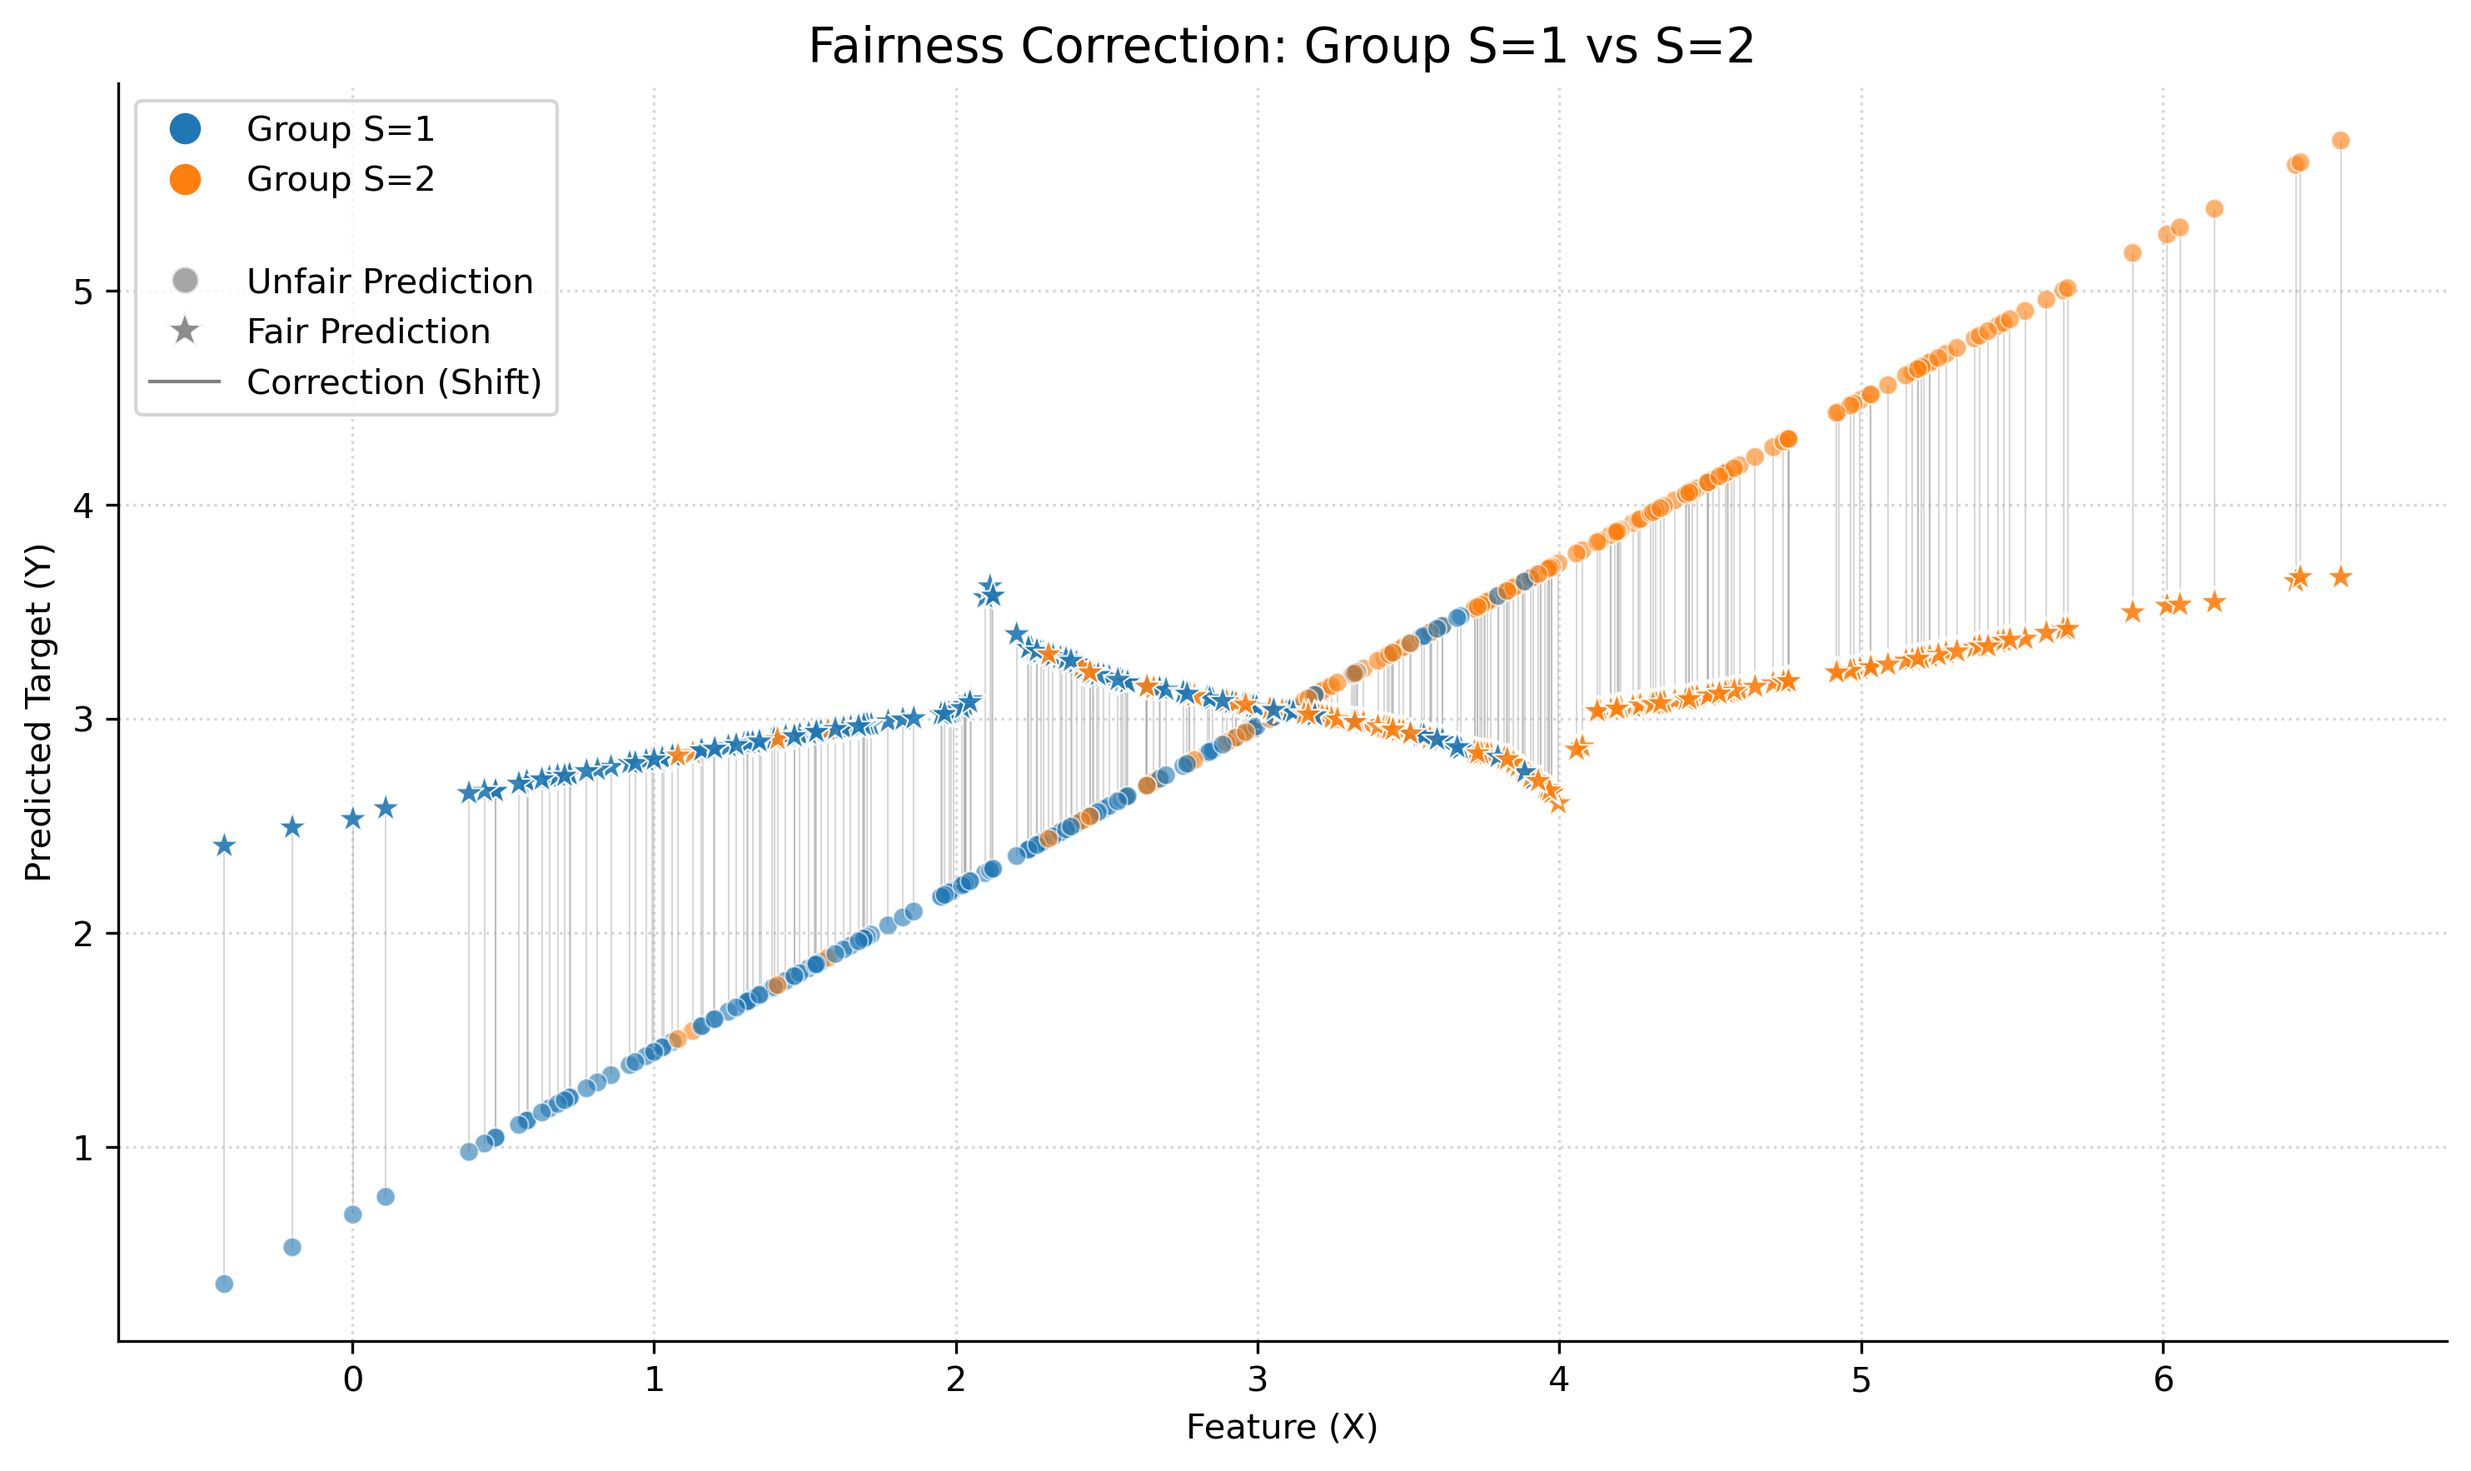
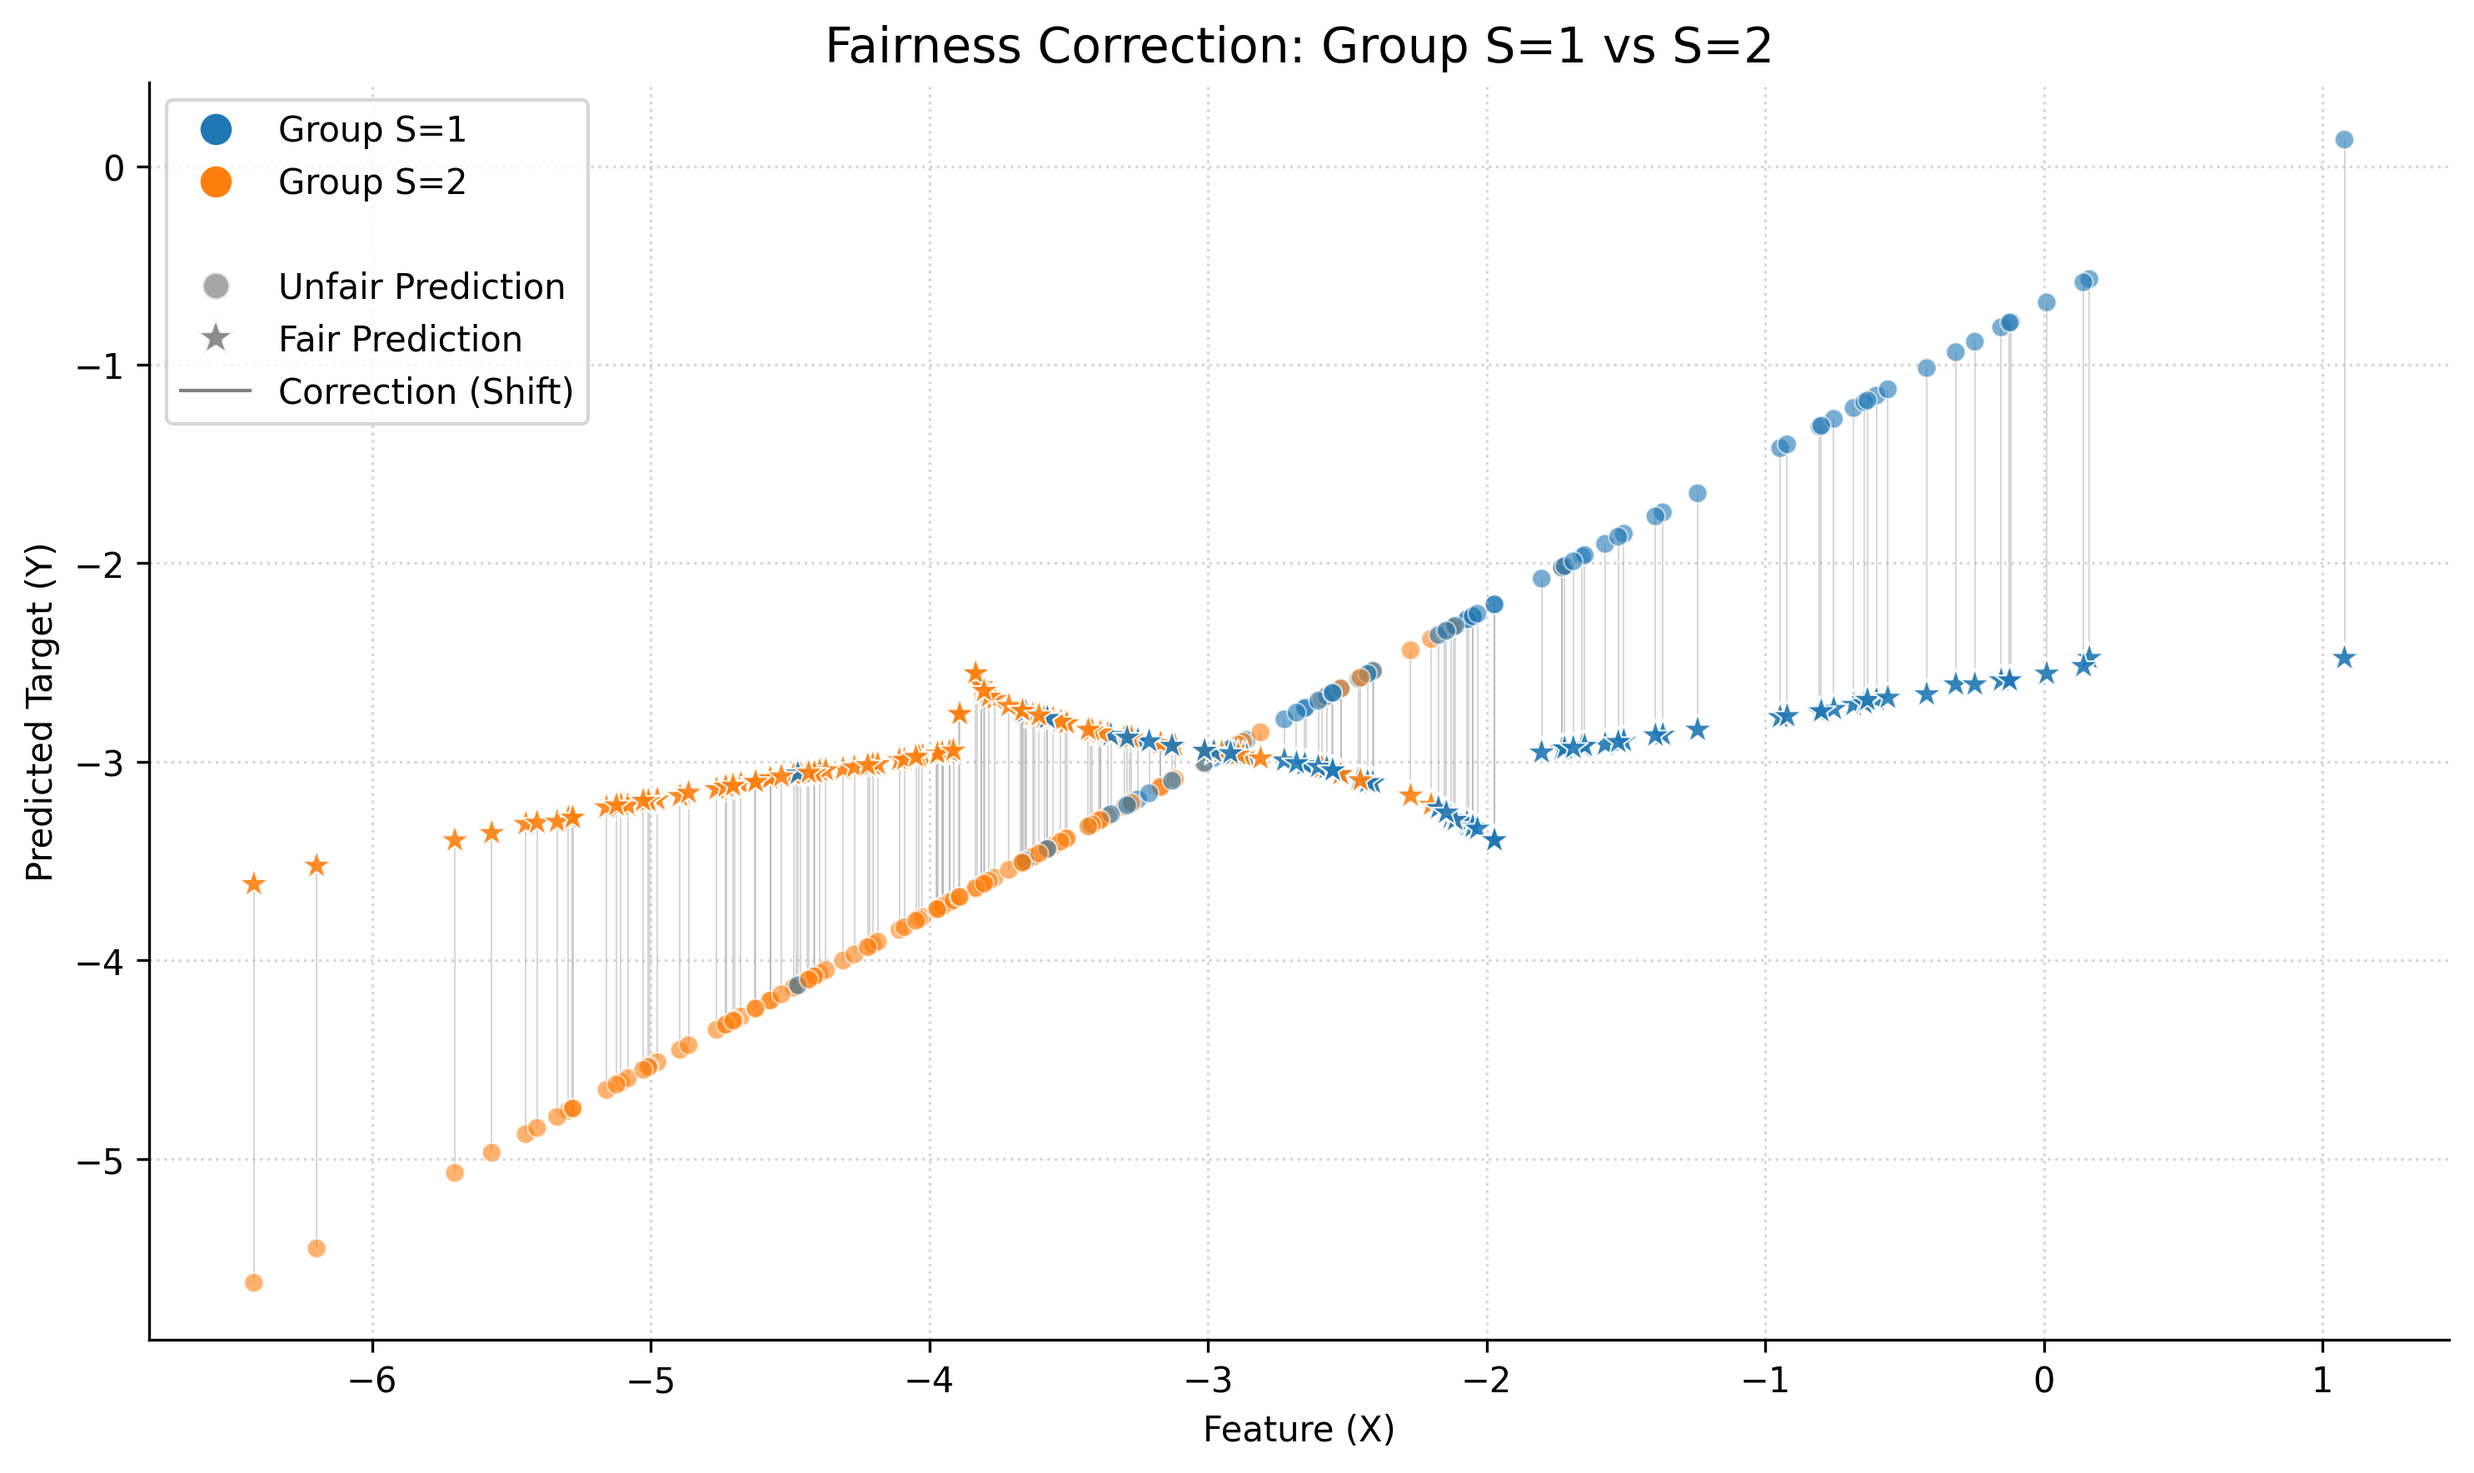
updated visualisation routine with the histogram representation

diff --git a/visualisation_routine.py b/visualisation_routine.py
@@ -33,11 +33,11 @@ def generate_linear_data(n , alpha_0, alpha_1, p = 0.5, x_scale = 1, noise_scale
     np.random.seed(seed)
     S = np.random.binomial(1, p, n)+1 # Binary sensitive attributes
 
-    X = np.random.normal(0, x_scale, n) + alpha_0 * S
+    X = np.random.normal(0, x_scale, n) - alpha_0 * S
     X = X.reshape(-1, 1)
 
     # Y depends on X and S 
-    Y = alpha_1*S + 0.5 * X.flatten() + np.random.normal(0, noise_scale, n)
+    Y = -alpha_1*S + 0.5 * X.flatten() + np.random.normal(0, noise_scale, n)
    
     return X, Y, S
 
@@ -429,3 +429,113 @@ plot_fairness_shift(
     n_samples = 50 
 )
 # %%
+# %% 
+
+def plot_fairness_shift(y_unfair, y_fair, s_attr, delta, n_samples=None, seed=42):
+    """
+    Visualizes the shift from unfair to fair predictions using a transport map style,
+    alongside the initial conditional distributions and the final barycenter.
+    """
+    
+    # Standardize Inputs (Keep full arrays for accurate histograms)
+    y_u_full = np.array(y_unfair).flatten()
+    y_f_full = np.array(y_fair).flatten()
+    s_full = np.array(s_attr).flatten()
+    d_full = np.array(delta).flatten()
+    
+    unique_groups = np.unique(s_full)
+    
+    # Sampling for the scatter plot only (Optional)
+    if n_samples is not None and n_samples < len(y_u_full):
+        np.random.seed(seed)
+        indices = np.random.choice(len(y_u_full), n_samples, replace=False)
+        y_u, y_f, s, d = y_u_full[indices], y_f_full[indices], s_full[indices], d_full[indices]
+    else:
+        y_u, y_f, s, d = y_u_full, y_f_full, s_full, d_full
+
+    # Setup Colors (Blue & Orange)
+    cmap = plt.get_cmap('tab10')
+    c_blue = cmap(0)  
+    c_orange = cmap(1)
+    group_colors = {unique_groups[0]: c_blue, unique_groups[1]: c_orange}
+    point_colors = [group_colors[val] for val in s]
+
+    # --- Setup Figure and GridSpec ---
+    fig = plt.figure(figsize=(10, 8))
+    # Create two rows: top for histograms (height 1), bottom for scatter (height 2.5)
+    gs = fig.add_gridspec(2, 1, height_ratios=[1, 2.5], hspace=0.05)
+    
+    ax_hist = fig.add_subplot(gs[0])
+    ax_scatter = fig.add_subplot(gs[1], sharex=ax_hist)
+
+    # ==========================================
+    # 1. TOP PANEL: Distributions (Histograms)
+    # ==========================================
+    group_0_mask = s_full == unique_groups[0]
+    group_1_mask = s_full == unique_groups[1]
+    
+    # Initial conditional distributions (Unfair)
+    ax_hist.hist(y_u_full[group_0_mask], bins=40, density=True, alpha=0.4, 
+                 color=c_blue, label=f'Initial | S={unique_groups[0]}')
+    ax_hist.hist(y_u_full[group_1_mask], bins=40, density=True, alpha=0.4, 
+                 color=c_orange, label=f'Initial | S={unique_groups[1]}')
+    
+    # Barycenter distribution (Fair - target)
+    ax_hist.hist(y_f_full, bins=40, density=True, histtype='step', 
+                 linewidth=2, color='black', linestyle='--', label='Barycenter (Fair)')
+    
+    ax_hist.set_ylabel("Density")
+    ax_hist.legend(loc='upper right')
+    ax_hist.tick_params(labelbottom=False) # Hide x-ticks to blend with the plot below
+    ax_hist.grid(axis='x', alpha=0.3)
+
+    # ==========================================
+    # 2. BOTTOM PANEL: Transport Map (Scatter)
+    # ==========================================
+    start_points = np.column_stack((y_u, d))
+    end_points = np.column_stack((y_f, np.zeros_like(d)))
+    
+    segments = np.stack((start_points, end_points), axis=1)
+    lc = LineCollection(segments, colors='gray', alpha=0.3, linewidths=0.8, zorder=0)
+    ax_scatter.add_collection(lc)
+    
+    # Unfair (Start) - Stars
+    ax_scatter.scatter(y_u, d, c=point_colors, s=60, marker='*', 
+                       alpha=0.8, edgecolors='white', linewidth=0.5, zorder=1)
+    
+    # Fair (End) - Circles (Projected onto y=0)
+    ax_scatter.scatter(y_f, np.zeros_like(d), c=point_colors, s=50, marker='o', 
+                       alpha=0.9, edgecolors='white', linewidth=0.5, zorder=2)
+
+    # Custom Legend for the bottom plot
+    legend_elements = [
+        Line2D([0], [0], marker='o', color='w', label=f'Group {unique_groups[0]}',
+               markerfacecolor=c_blue, markersize=10),
+        Line2D([0], [0], marker='o', color='w', label=f'Group {unique_groups[1]}',
+               markerfacecolor=c_orange, markersize=10),
+        Line2D([0], [0], color='white', label=' '), 
+        Line2D([0], [0], marker='*', color='w', label='Unfair Prediction',
+               markerfacecolor='gray', markersize=12),
+        Line2D([0], [0], marker='o', color='w', label='Fair Prediction',
+               markerfacecolor='gray', markersize=10),
+    ]
+
+    ax_scatter.axhline(0, color='black', linestyle='-', linewidth=1, alpha=0.5)
+    ax_scatter.set_xlabel("Predicted Value ($y$)")
+    ax_scatter.set_ylabel(r"$\Delta(x)$ (Correction Cost)")
+    ax_scatter.legend(handles=legend_elements, loc='upper right', frameon=True)
+    ax_scatter.grid(alpha=0.2)
+    
+    fig.suptitle(f"Fairness Correction Transport Map (Sampled {len(y_u)} points)", y=0.95)
+    
+    plt.tight_layout()
+    plt.savefig("./results/generic_data_unaware_correction_line_with_hist.png", dpi=300) 
+    plt.show()
+
+plot_fairness_shift(
+    y_unfair = y_std, 
+    y_fair = y_fair, 
+    s_attr = S_test, 
+    delta = ot_reg.delta_predict, 
+    n_samples = 100 
+)

diff --git a/OTUnawareFairRegressor.py b/OTUnawareFairRegressor.py
@@ -51,8 +51,8 @@ class OTUnawareFairRegressor(BaseEstimator, RegressorMixin):
         self.eta_model_ = clone(self.base_regressor).fit(X, y)
         eta_train = self.eta_model_.predict(X)
 
-        self.p_s1_ = np.clip(np.mean(s == 1), min = 1e-6, max =  1 - 1e-6)
-        self.p_s2_ = np.clip(np.mean(s == 2), min = 1e-6, max = 1-1e-6)
+        self.p_s1_ = np.clip(np.mean(s == 1), a_min=1e-6, a_max=1-1e-6)
+        self.p_s2_ = np.clip(np.mean(s == 2), a_min=1e-6, a_max=1-1e-6)
         self.delta_model_ = clone(self.base_classifier).fit(X, s)
         ps_pred = self.delta_model_.predict_proba(X)[:, 1]
         
